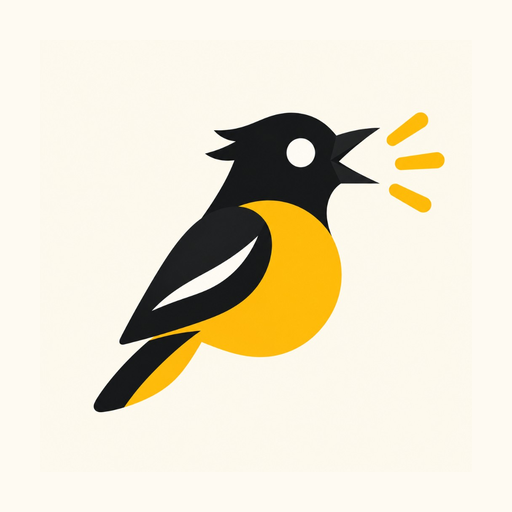
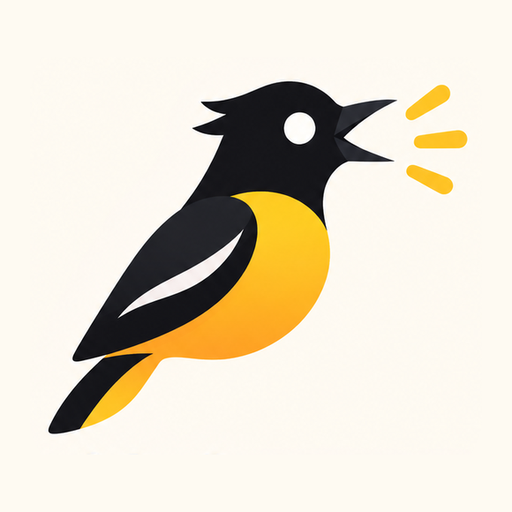
Update turpial brand assets and harden word explain on Flash 3.8 only.

Changed region(s): [[0.0938, 0.1562, 0.9375, 0.875]]

diff --git a/js/gemini.js b/js/gemini.js
@@ -271,26 +271,72 @@ export async function apiSubtitle(englishText, { retries = 1 } = {}) {
   return { subtitleTranslation: '' };
 }
 
+function parseJsonLoose(raw) {
+  const s = String(raw || '').trim();
+  if (!s) throw new Error('EMPTY_RESPONSE');
+  try {
+    return JSON.parse(s);
+  } catch (_) {
+    const fenced = s.match(/```(?:json)?\s*([\s\S]*?)```/i);
+    if (fenced) return JSON.parse(fenced[1].trim());
+    const start = s.indexOf('{');
+    const end = s.lastIndexOf('}');
+    if (start >= 0 && end > start) return JSON.parse(s.slice(start, end + 1));
+    throw new Error('BAD_JSON');
+  }
+}
+
 /**
- * Explica una palabra en contexto.
+ * Explica una palabra en contexto (solo Gemini 3.8 Flash, con reintento).
  * Devuelve { word, lemma, contextualExplanation, glossEnglish, exampleUsage }
  */
 export async function apiExplainWord({ word, sentence }) {
   const body = {
-    systemInstruction: { parts: [{ text: 'Explain one word in its sentence. Return JSON only.' }] },
-    contents: [{ role: 'user', parts: [{ text: `The learner is studying English and tapped "${word}" in: "${sentence}". Explain it in Spanish in 2 or 3 short sentences. Do not add the word to a vocabulary list.` }] }],
-    generationConfig: { responseMimeType: 'application/json', responseSchema: {
-      type: 'OBJECT',
-      properties: {
-        word:                  { type: 'STRING' },
-        lemma:                 { type: 'STRING' },
-        contextualExplanation: { type: 'STRING' },
-        glossEnglish:          { type: 'STRING' },
-        exampleUsage:          { type: 'STRING' },
+    systemInstruction: {
+      parts: [{
+        text: 'Explain one English word in its sentence for a Spanish-speaking learner. Return JSON only. contextualExplanation must be Spanish, 2 or 3 short sentences.',
+      }],
+    },
+    contents: [{
+      role: 'user',
+      parts: [{
+        text: `The learner tapped "${word}" in: "${sentence}". Explain that word in Spanish in context. Do not add it to a vocabulary list.`,
+      }],
+    }],
+    generationConfig: {
+      responseMimeType: 'application/json',
+      responseSchema: {
+        type: 'OBJECT',
+        properties: {
+          word:                  { type: 'STRING' },
+          lemma:                 { type: 'STRING' },
+          contextualExplanation: { type: 'STRING' },
+          glossEnglish:          { type: 'STRING' },
+          exampleUsage:          { type: 'STRING' },
+        },
+        required: ['word', 'lemma', 'contextualExplanation', 'glossEnglish', 'exampleUsage'],
       },
-      required: ['word','lemma','contextualExplanation','glossEnglish','exampleUsage'],
-    }},
+    },
   };
-  const text = await generateWithFallback(body);
-  return JSON.parse(text || '{}');
+
+  let lastErr = null;
+  for (let attempt = 0; attempt < 3; attempt++) {
+    try {
+      const res = await geminiPost(MODEL_PRIMARY, body);
+      const parsed = parseJsonLoose(extractText(res));
+      const contextualExplanation = String(parsed.contextualExplanation || '').trim();
+      if (!contextualExplanation) throw new Error('EMPTY_EXPLANATION');
+      return {
+        word: String(parsed.word || word).trim() || word,
+        lemma: String(parsed.lemma || word).trim() || word,
+        contextualExplanation,
+        glossEnglish: String(parsed.glossEnglish || '').trim(),
+        exampleUsage: String(parsed.exampleUsage || '').trim(),
+      };
+    } catch (e) {
+      lastErr = e;
+      if (e.message === 'NO_KEY') throw e;
+    }
+  }
+  throw lastErr || new Error('EXPLAIN_FAILED');
 }

diff --git a/js/views/charla.js b/js/views/charla.js
@@ -11,7 +11,7 @@ import { getSetting, setSetting, saveSession } from '../db.js';
 import { apiSendTurn, apiRequestHelp, apiExplainWord, apiSubtitle } from '../gemini.js';
 import { pacingInstruction } from '../learning.js';
 import { live } from '../live.js';
-import { icon, btnWithIcon, setBtnIconLabel } from '../icons.js?v=10';
+import { icon, btnWithIcon, setBtnIconLabel } from '../icons.js?v=12';
 
 export async function mountCharla(container, { navigate }) {
   let history = [];
@@ -332,8 +332,12 @@ export async function mountCharla(container, { navigate }) {
       wordTitle.textContent = result.word || word;
       wordBody.textContent = result.contextualExplanation || '';
       wordExample.textContent = result.exampleUsage ? `Ejemplo: ${result.exampleUsage}` : '';
-    } catch (_) {
-      wordBody.textContent = 'No pude encontrar una explicación ahora.';
+    } catch (err) {
+      console.warn('Explicar palabra falló:', err?.message || err);
+      wordBody.textContent =
+        err?.message === 'NO_KEY'
+          ? 'No tengo una clave de API. Ve a Ajustes y ponla.'
+          : 'No pude explicar esa palabra ahora. Inténtalo de nuevo en un momento.';
       wordExample.textContent = '';
     }
   });

diff --git a/js/router.js b/js/router.js
@@ -6,11 +6,11 @@
  *  - Sesión y ajustes en almacenamiento; recargar no los pierde
  */
 import { openDB, migrateFromLocalStorage, getSetting } from './db.js';
-import { mountBienvenida } from './views/bienvenida.js?v=10';
-import { mountCharla }     from './views/charla.js?v=10';
-import { mountTemas }      from './views/temas.js?v=10';
-import { mountPalabras }   from './views/palabras.js?v=10';
-import { mountAjustes }    from './views/ajustes.js?v=10';
+import { mountBienvenida } from './views/bienvenida.js?v=12';
+import { mountCharla }     from './views/charla.js?v=12';
+import { mountTemas }      from './views/temas.js?v=12';
+import { mountPalabras }   from './views/palabras.js?v=12';
+import { mountAjustes }    from './views/ajustes.js?v=12';
 
 const ROUTES = {
   '/':         mountBienvenida,

diff --git a/js/views/palabras.js b/js/views/palabras.js
@@ -6,7 +6,7 @@
  */
 import { getAllVocabulary } from '../db.js';
 import { applyVocabularyDecay } from '../pedagogy.js';
-import { icon } from '../icons.js?v=10';
+import { icon } from '../icons.js?v=12';
 
 const STAGE_LABEL = ['Nueva', 'Frágil', 'Creciendo', 'Estable'];
 

diff --git a/sw.js b/sw.js
@@ -2,7 +2,7 @@
    Estrategia: network-first; caché solo sin conexión.
    Subir CACHE_NAME en cada publicación.
 */
-const CACHE_NAME = 'hablame-v10';
+const CACHE_NAME = 'hablame-v12';
 const PRECACHE = [
   './',
   './index.html',

diff --git a/index.html b/index.html
@@ -76,7 +76,7 @@
     </nav>
   </div>
 
-  <script type="module" src="./js/router.js?v=10"></script>
+  <script type="module" src="./js/router.js?v=12"></script>
 </body>
 </html>
 

diff --git a/js/views/temas.js b/js/views/temas.js
@@ -1,7 +1,7 @@
 /**
  * views/temas.js — Selector de situación
  */
-import { icon } from '../icons.js?v=10';
+import { icon } from '../icons.js?v=12';
 
 const THEMES = [
   {

diff --git a/SISTEMA.md b/SISTEMA.md
@@ -37,7 +37,7 @@ Banner: Apagado / Escuchando / Respondiendo.
 
 ### Flash (resto)
 
-`js/gemini.js` (Gemini 3.8 Flash + fallback): subtítulos ES (`apiSubtitle` con reintento), «Una ayuda», explicar palabra al tocar.
+`js/gemini.js` (Gemini 3.8 Flash + fallback en turnos/subtítulos): explicar palabra al tocar usa **solo** `gemini-3.8-flash` (reintento, sin 3.5).
 Teclado: preferir Live (`sendClientText`); si no arranca, Flash con reintento. Subtítulos Live por turno (sin cancelar el anterior; placeholder «Traduciendo…»).
 
 ### Tools Live (el modelo no escribe en IDB)
@@ -98,7 +98,7 @@ Base de datos: **IndexedDB** `hablame_v1` (un solo módulo `js/db.js`).
 
 1. Menú contextual desactivado salvo `.selectable`; sin drag de vínculos; scroll con `touch-action: pan-y` y `overscroll-behavior: contain`.
 2. Controles custom (pills, steppers); sin `<select>` nativo de Android.
-3. Service Worker **red-primero**; caché `hablame-v10`.
+3. Service Worker **red-primero**; caché `hablame-v12`.
    - Marca: `assets/logo.png` (turpial) junto a Háblame; iconos PWA en `icons/`.
    - Iconos UI: SVG de trazo en `js/icons.js` (sin emoji), también en Temas.
 4. Aviso Mural (`NOTICE`) embebido en la app.
